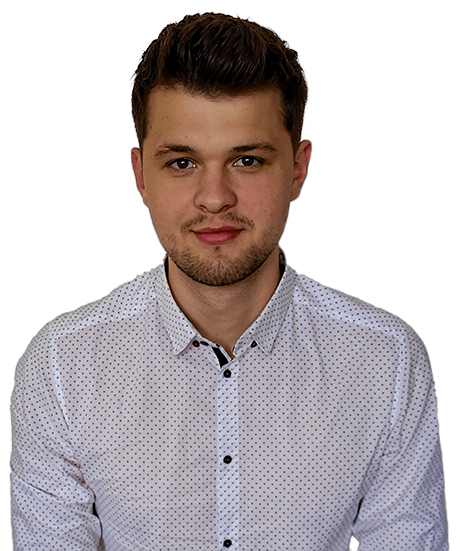
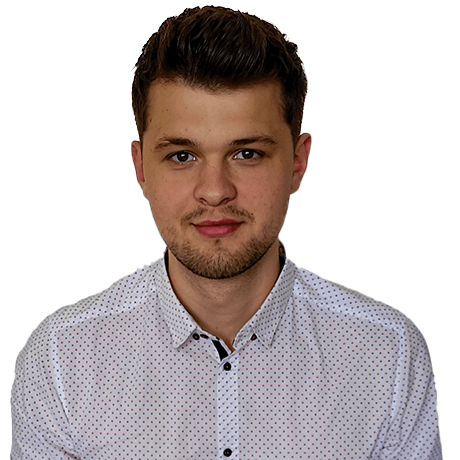
Framer motion added

diff --git a/src/features/Hero/hero.tsx b/src/features/Hero/hero.tsx
@@ -1,7 +1,5 @@
-import React from "react";
 import {
     Image,
-    ImageSection,
     ImageWrapper,
     Role,
     Text,
@@ -11,6 +9,7 @@ import {
 } from "./styledHero";
 import { TypeAnimation } from "react-type-animation";
 import profile from "../../common/Images/profile.png";
+import { motion } from "framer-motion";
 
 export const Hero = () => {
     return (
@@ -24,8 +23,22 @@ export const Hero = () => {
                         repeat={Infinity}
                     />
                 </Title>
-                <Role>Frontend / Mobile App developer</Role>
-                <Text>
+                <Role
+                    as={motion.h2}
+                    initial={{ x: "-30%", opacity: 0 }}
+                    whileInView={{ x: 0, opacity: 1 }}
+                    viewport={{ once: false }}
+                    transition={{ duration: 1 }}
+                >
+                    Frontend / Mobile App developer
+                </Role>
+                <Text
+                    as={motion.p}
+                    initial={{ y: "30%", opacity: 0 }}
+                    whileInView={{ y: 0, opacity: 1 }}
+                    viewport={{ once: false }}
+                    transition={{ duration: 1 }}
+                >
                     I'm an enthusiastic Frontend Developer with a strong passion
                     for new technologies and a deep commitment to learning
                     React. I am highly motivated and thrive on being a fast
@@ -35,11 +48,15 @@ export const Hero = () => {
                 </Text>
             </TextSection>
 
-            <ImageSection>
-                <ImageWrapper>
-                    <Image src={profile} alt="Profile" />
-                </ImageWrapper>
-            </ImageSection>
+            <ImageWrapper
+                as={motion.div}
+                initial={{ x: "30%", opacity: 0 }}
+                whileInView={{ x: 0, opacity: 1 }}
+                viewport={{ once: false }}
+                transition={{ duration: 1 }}
+            >
+                <Image src={profile} alt="Profile" />
+            </ImageWrapper>
         </Wrapper>
     );
 };

diff --git a/src/features/Hero/styledHero.ts b/src/features/Hero/styledHero.ts
@@ -40,7 +40,7 @@ export const Role = styled.h2`
 `;
 
 export const Text = styled.p`
-    font-size: 24px;
+    font-size: 20px;
     color: ${theme.color.fontColor};
     font-weight: 200;
     text-align: justify;
@@ -48,25 +48,30 @@ export const Text = styled.p`
     letter-spacing: 2px;
 `;
 
-export const ImageSection = styled.div`
-
+export const ContactIconsWrapper = styled.div`
+    
 `;
 
-export const ImageWrapper =styled.div`
-    background-image: url();
+export const ImageWrapper = styled.div`
     border: 1px solid white;
     display: flex;
     justify-content: center;
+    align-items: end;
     border-radius: 100%;
     overflow: hidden;
+    max-width: 560px;
+    padding: 40px;
     width: 100%;
     aspect-ratio: 1;
+    position: relative;
 `;
 
 export const Image = styled.img`
     margin: 0 auto;
     max-width: 520px;
     width: 100%;
+    position: absolute;
+    bottom: 0px;
 `;
 
 export const Button = styled.button`

diff --git a/declarations.d.ts b/declarations.d.ts
@@ -1,0 +1,3 @@
+// NOTE: The declaration below was injected by `"framer"`
+// see https://www.framer.com/docs/guides/handshake for more information.
+declare module "https://framer.com/m/*";
